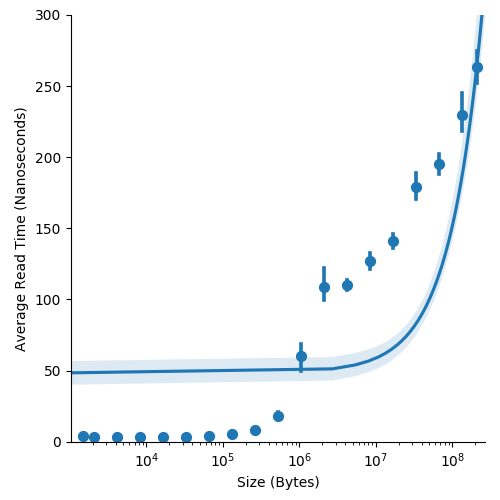
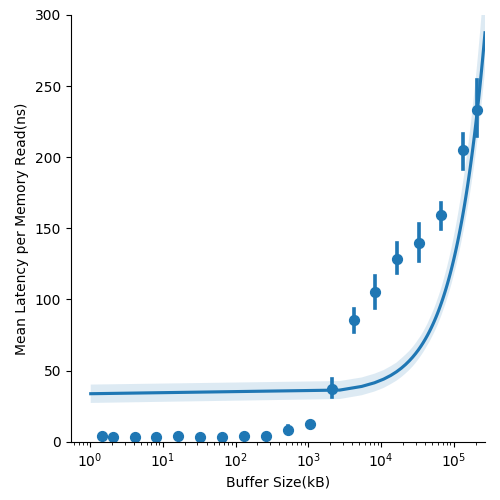
fix graph labels and buffer size

diff --git a/make_benchmark_graphs.py b/make_benchmark_graphs.py
@@ -1,29 +1,10 @@
 import pandas as pd
 from matplotlib import pyplot as plt
 import seaborn as sns
-import os
-import time
 
-def single_run_average_latency_graph():
-    df = pd.read_csv("benchmark_caches.csv")
-    print(df)
-    grid = sns.lmplot(x="size", y="average_read_time", data=df, x_bins=19)
-    grid.set(xscale="log", ylim=(0, 300))
-    grid.set_axis_labels("Size (Bytes)","Average Read Time (Nanoseconds)")
-    plt.show()
-
-def multi_run_average_latency_graph():
-    df = pd.read_csv("benchmark_caches.csv")
-    print(df)
-    grid = sns.lmplot(x="size", y="average_read_time", data=df, x_bins=19)
-    grid.set(xscale="log", ylim=(0, 300))
-    grid.set_axis_labels("Size (Bytes)","Average Read Time (Nanoseconds)")
-    plt.show()
-
-if __name__ == "__main__":
-    """
-    If memory_benchmark was set to run the benchmark multiple times then
-    call the multiple_runs_average_latency_graph function, otherwise
-    call the single_run_average_latency_graph function
-    """
-    single_run_average_latency_graph()
+df = pd.read_csv("benchmark_caches.csv")
+print(df)
+grid = sns.lmplot(x="size", y="average_read_time", data=df, x_bins=19)
+grid.set(xscale="log", ylim=(0, 300))
+grid.set_axis_labels("Buffer Size(kB)","Mean Latency per Memory Read(ns)")
+plt.show()

diff --git a/memory_benchmark.cpp b/memory_benchmark.cpp
@@ -15,14 +15,17 @@ specified size, averaged over the specified number of iters.
 */
 double time_buffer_read(unsigned size, unsigned iters)
 {
-  int* buffer = new int[size];
+  // since each int is more than one byte
+  unsigned num_ints = size/sizeof(int);
+
+  int* buffer = new int[num_ints];
   // This prevents the compiler from optimizing away the timed loop
   volatile unsigned index = 0;
 
   // Initialize the buffer with random values
-  for (unsigned i = 0; i < size; i++)
+  for (unsigned i = 0; i < num_ints; i++)
   {
-    buffer[i] = rand() % size;
+    buffer[i] = rand() % num_ints;
   }
 
   const auto start = steady_clock::now();
@@ -87,7 +90,7 @@ int main(int argc, char** argv)
     output_file << "size,average_read_time\n";
     for (unsigned i = 0; i < results.size(); i++)
     {
-      output_file << sizes[i] << "," << results[i] << "\n";
+      output_file << double(sizes[i])/1000 << "," << results[i] << "\n";
     }
 
     output_file.close();
